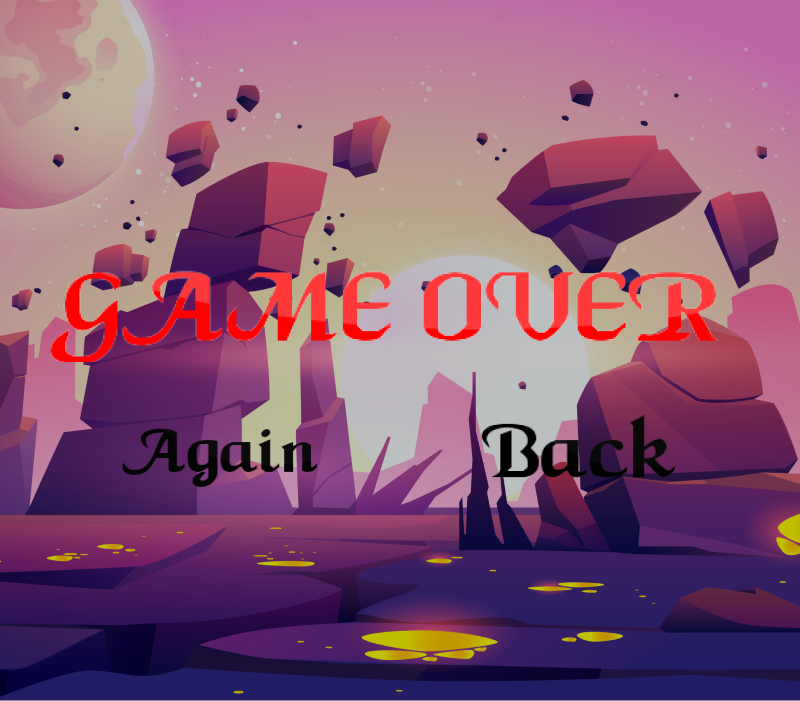
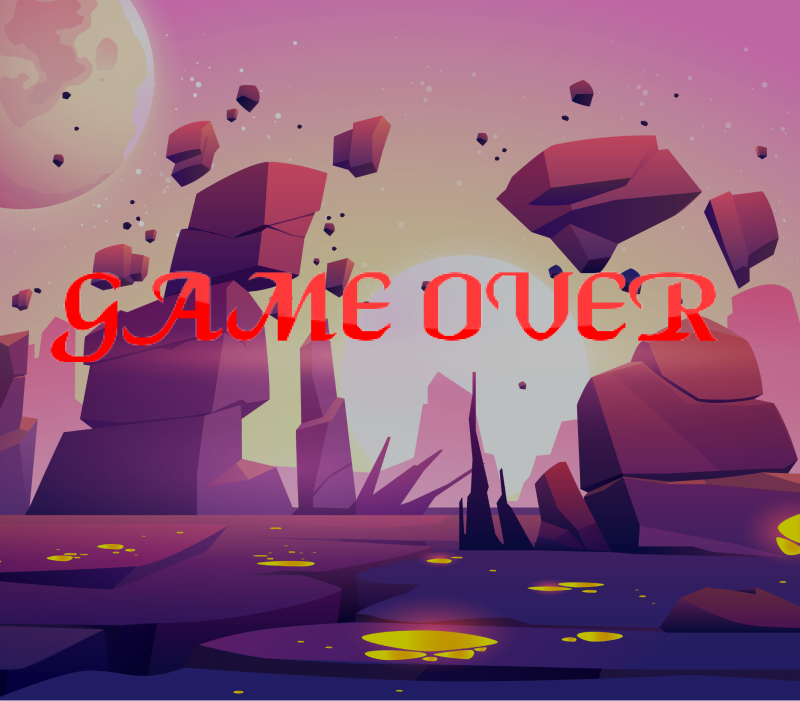
check button

Changed region(s): [[0.5938, 0.5991, 0.8438, 0.689], [0.1562, 0.5991, 0.4062, 0.689]]

diff --git a/project-game.py b/project-game.py
@@ -158,15 +158,17 @@ def finishGame():
     canvas.delete("all")
     if gameWin:
         canvas.create_image(0,0, anchor=NW, image = winBg)
-        canvas.create_text(380,360,text='Your Score: '+str(score),font=('Roboto','32','bold'),fill='white',tags="myScore")
-        winsound.PlaySound('sound\win.wav',winsound.SND_FILENAME | winsound.SND_ASYNC) 
-        canvas.create_text(80,40,text='BACK',font=('Roboto','32','bold'),fill="white" ,tags="restart")
-
+        canvas.create_text(390,380,text='Your Score: '+str(score),font=('Roboto','32','bold'),fill='white',tags="myScore")
+        winsound.PlaySound('sound\win.wav',winsound.SND_FILENAME | winsound.SND_ASYNC)
+        canvas.create_rectangle(320,430,480,490,fill='white',tags='restart' )
+        canvas.create_text(400,460,text='Back',font=('Roboto','32','bold'),fill="black" ,tags="restart")        
     else:
         winsound.PlaySound('sound\lost.wav',winsound.SND_FILENAME | winsound.SND_ASYNC) 
         canvas.create_image(0,0, anchor=NW, image = lostBg)
-        canvas.create_text(80,40,text='BACK',font=('Roboto','32','bold'),fill="white" ,tags="restart")
-        canvas.create_text(680,40,text='AGAIN',font=('Roboto','32','bold'),fill="white" ,tags="replay")
+        canvas.create_rectangle(110,415,290,475,fill='white',tags='restart' )
+        canvas.create_text(200,450,text='BACK',font=('Roboto','32','bold'),fill="black" ,tags="restart")
+        canvas.create_rectangle(510,415,690,475,fill='white',tags='restart' )
+        canvas.create_text(600,450,text='AGAIN',font=('Roboto','32','bold'),fill="black" ,tags="replay")
 # create enemy==================================
 def createEnemy():
     global enemy, gameProcessing, score
@@ -174,15 +176,14 @@ def createEnemy():
         enemy = canvas.create_image(random.randrange(20,650),-10,anchor = NW,image=enemyIamge)
         listOfEnemy.append(enemy)
     if gameProcessing and score < 45:
-        canvas.after(200,createEnemy)
+        canvas.after(1000,createEnemy)
     elif gameProcessing and score < 75:
-        canvas.after(1500,createEnemy)
+        canvas.after(1000,createEnemy)
     elif gameProcessing:
         canvas.after(1000,createEnemy)
     else:
         finishGame()
 # =====================move enemy=====================  
-
 def moveEnemy():
     global listOfEnemy,playerX,playerY, lifeOfPlayer ,gameProcessing
     if gameProcessing:
@@ -233,12 +234,6 @@ def moveBullet():
                 canvas.delete(bulletOfPlayer)
         bulletMeetEnemy()
         canvas.after(50,moveBullet) 
-
-
-
-
-
-
 # ==============================is bullet of player meet enemy==============================
 def isMeetEnemy(listBulletOfPlayer,listOfEnemy):
     delete = []
@@ -251,26 +246,8 @@ def isMeetEnemy(listBulletOfPlayer,listOfEnemy):
                 delete.append(enemy)
                 winsound.PlaySound('sound\drop.wav',winsound.SND_FILENAME | winsound.SND_ASYNC) 
     return delete
-
-
-
-
-
-
-
-
-
-
-
-
-
-
-
-
-
-
 # ==============================Move player ==============================
-    # =====================moveRight=====================
+# =====================moveRight=====================
 def moveRight(event):
     global playerX,paused,playerY
     paused = False
